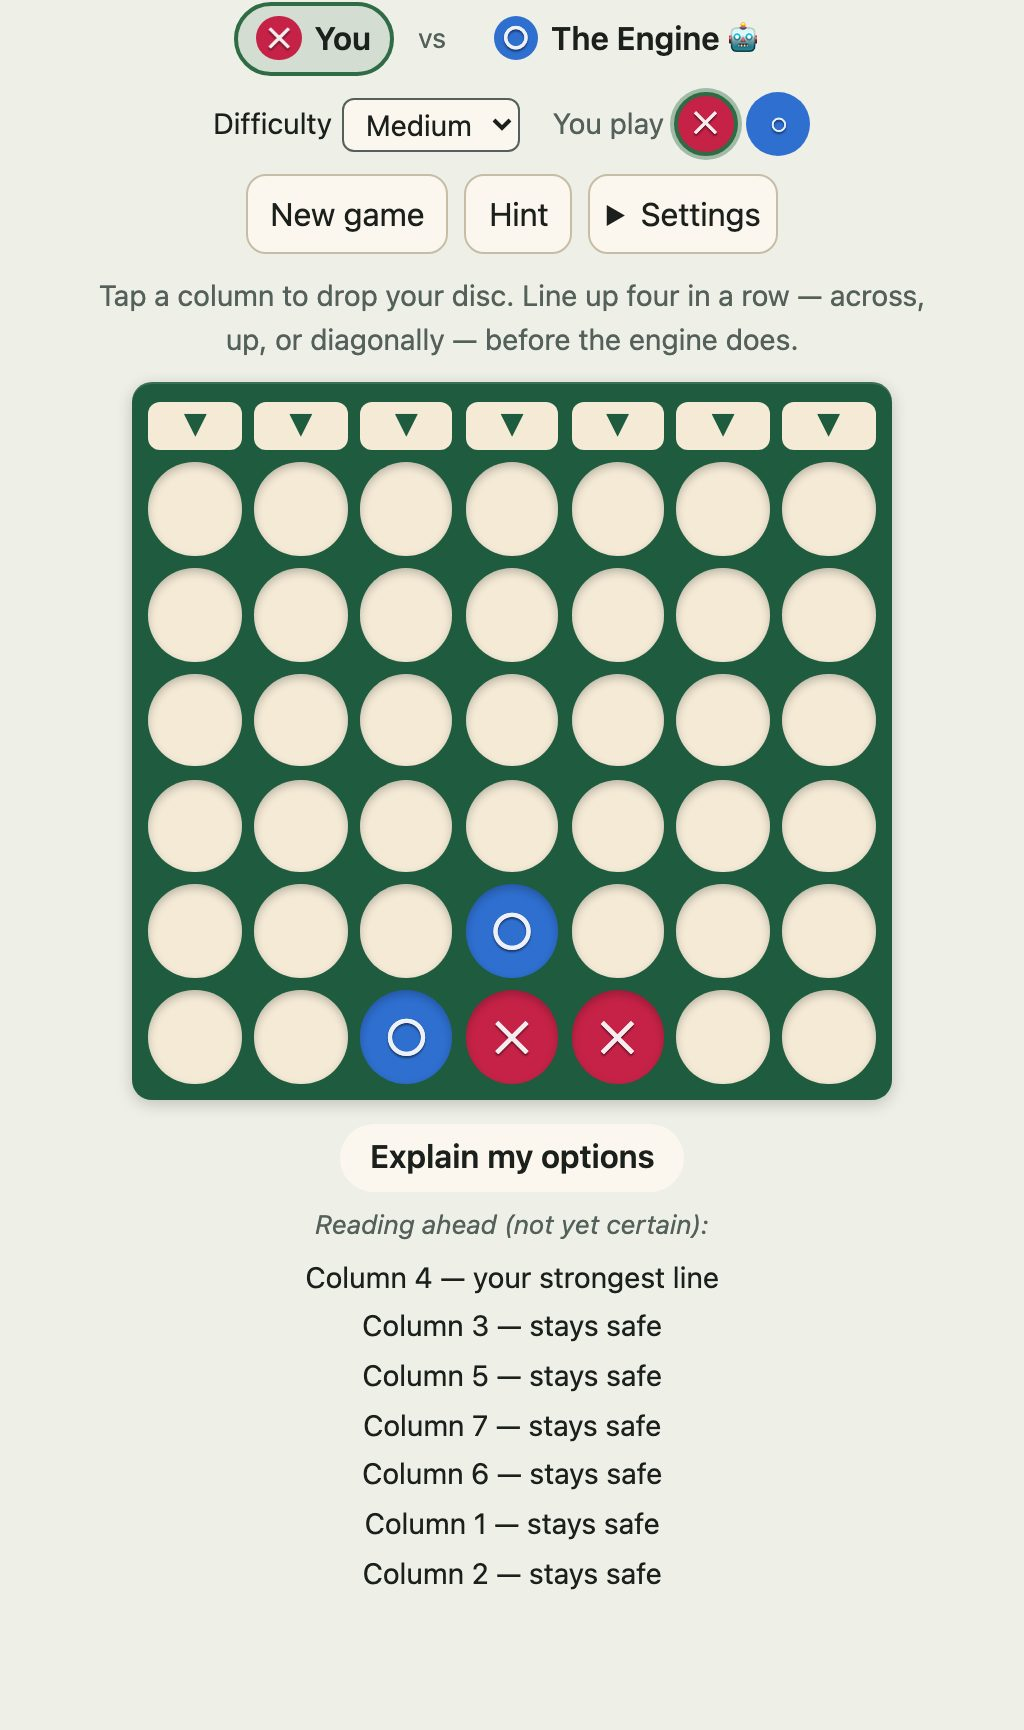
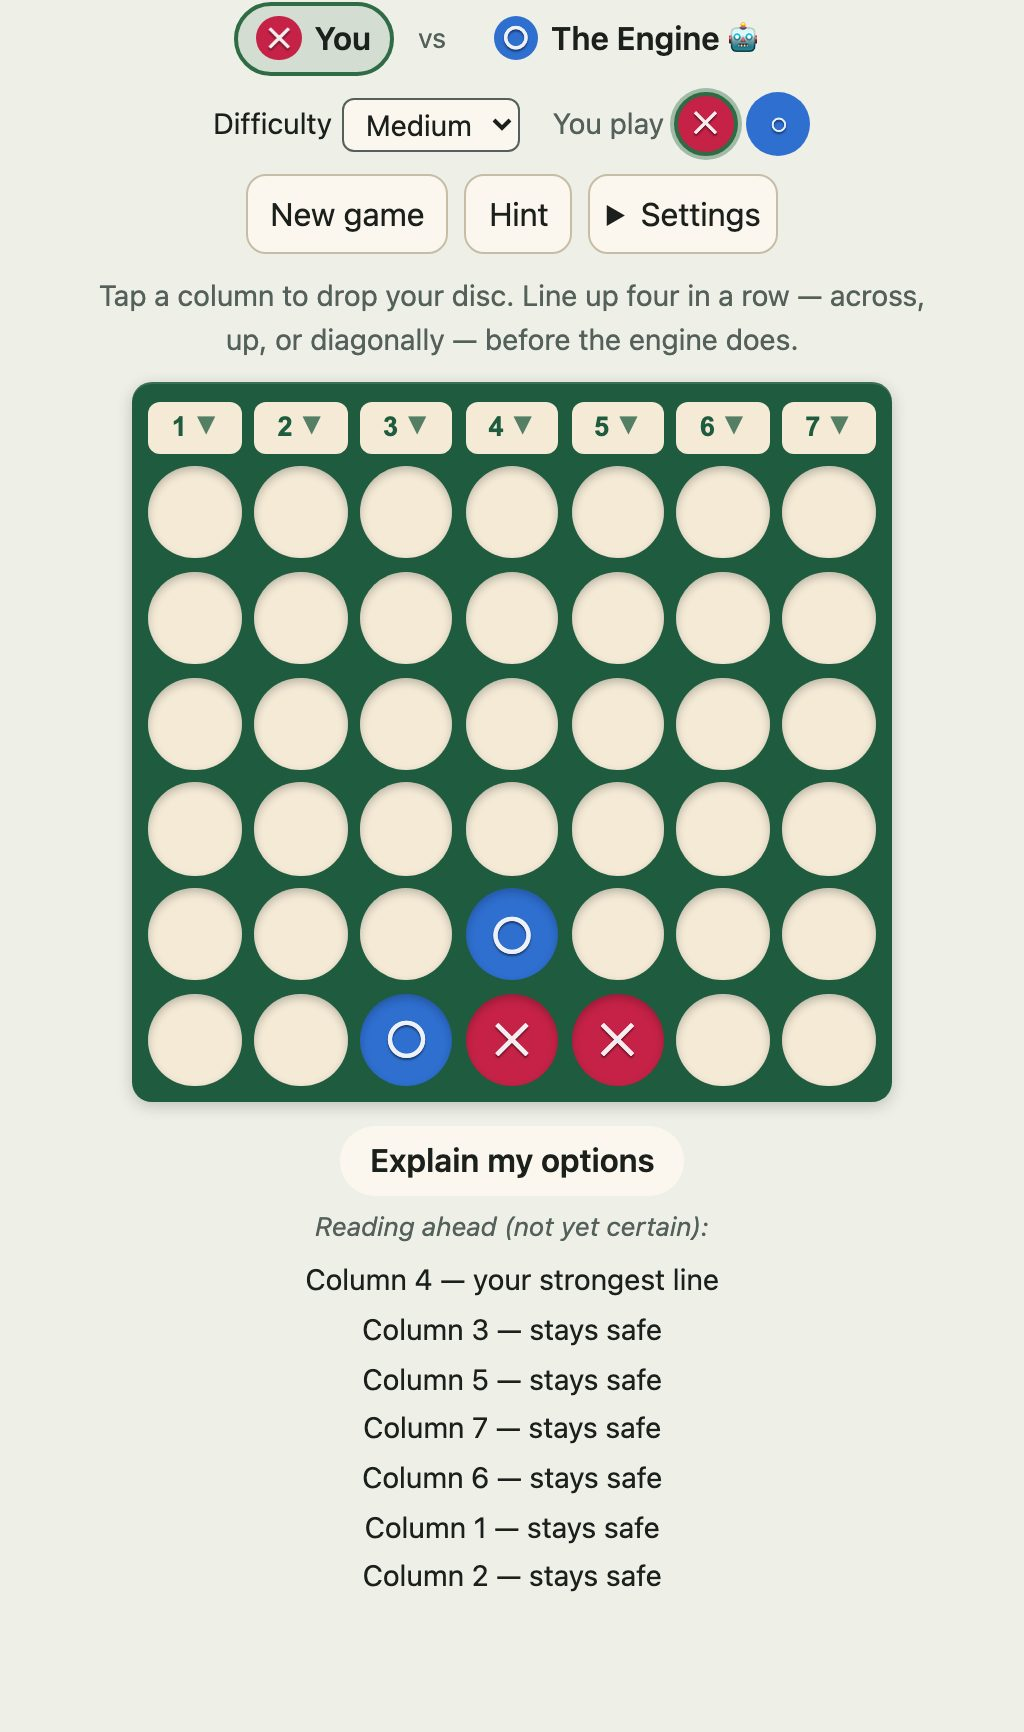
fix(drop4): playtest feedback — tutor opt-in, numbered columns, real persona (Chip)
From live play on the deployed site:
- Tutor guidance is now OPT-IN (Settings -> "Show tutor", off by default); the
  game plays clean without it. New drop4TutorEnabled setting.
- Columns numbered 1-7 on the board so the tutor/hint "column N" references are
  legible. Regenerated drop4-board + drop4-tutor shots (staged only those).
- The experimental opponent has a real persona, "Chip": cocky-but-gracious,
  speaks in SECOND person, reacts to what just happened (block/blunder/solid/win)
  via a persona prompt + situational hints + an in-character fallback library —
  replacing the third-person strategy nonsense.
- Default local-AI model lowered to Qwen2.5-0.5B (from 1.5B): faster (esp. mobile),
  and 1.5B was no better at short banter.

32 drop4 e2e green; tsc/eslint clean; hybrid ai:trial (0.5B): 'Chip: You've made a
solid move. Keep it up.'

diff --git a/src/games/drop4/drop4.ts b/src/games/drop4/drop4.ts
@@ -25,10 +25,12 @@ import {
   declareAssistanceEnabled,
   drop4Level,
   drop4Mark,
+  drop4TutorEnabled,
   hintsEnabled,
   setDeclareAssistance,
   setDrop4Level,
   setDrop4Mark,
+  setDrop4Tutor,
   setHintsEnabled,
   type Drop4Mark,
 } from "../../settings.js";
@@ -56,10 +58,28 @@ const FANFARE_MS = 1300;
 const LEVELS: readonly Level[] = ["Easy", "Medium", "Hard", "Perfect"];
 /** The picker value / opponent kind for the experimental local-AI hybrid. */
 const LOCAL_AI = "local-ai";
-/** The pinned local-AI model (embedded WebLLM; downloaded once, then cached). */
-const LOCAL_AI_MODEL = "Qwen2.5-1.5B-Instruct-q4f16_1-MLC";
-const HYBRID_SYSTEM =
-  'You are a Connect Four opponent with a bit of personality. Pick ONE of the offered legal moves and give a short, characterful reason. Reply ONLY with JSON {"move": <one of the offered column indices>, "reason": "<one short sentence>"}.';
+/**
+ * The pinned local-AI model (embedded WebLLM; downloaded once, then cached).
+ * A **small** model on purpose: the LLM only writes a one-line quip within the
+ * engine's band — size barely helps short banter (the 1.5B was no better and
+ * much slower, painfully so on mobile), so we default to the fast 0.5B.
+ */
+const LOCAL_AI_MODEL = "Qwen2.5-0.5B-Instruct-q4f16_1-MLC";
+/** The local-AI opponent's persona (distinct from the classic "The Engine"). */
+const LOCAL_AI_PERSONA = { name: "Chip", avatar: "😎" } as const;
+/**
+ * Persona system prompt — the small model needs tight, concrete rules to sound
+ * like a character instead of narrating strategy in the third person.
+ */
+const HYBRID_SYSTEM = [
+  `You are ${LOCAL_AI_PERSONA.name}, a Connect Four opponent with a cocky but`,
+  "good-natured personality. You talk a little trash and give credit when it's due.",
+  "RULES: speak in FIRST person as yourself, TO your opponent (say \"you\", never",
+  "\"the opponent\" or \"the engine\"). ONE short sentence, under 12 words. React to",
+  "what JUST happened — never explain strategy or name the board in the third",
+  'person. Reply ONLY with JSON {"move": <one of the offered columns>, "reason":',
+  '"<your one-line quip>"}.',
+].join(" ");
 /** Display labels for the picker — the internal `Level`/persisted value stays
  *  `Perfect` (it is the exact/best-play level), but "Expert" reads better and
  *  doesn't overclaim (it is only provably perfect once the game is tractable). */
@@ -257,8 +277,12 @@ export function drop4Module(): GameModule {
   let opponentKind: "engine" | typeof LOCAL_AI = "engine";
   let runtime: WebLLMRuntime | null = null;
   let hybrid: HybridPlayer | null = null;
-  /** The opponent's spoken reason for its last move (local-AI only). */
+  /** The opponent's spoken line for its last move (local-AI only). */
   let aiSay: string | null = null;
+  /** Signals about the human's last move, for the local-AI opponent's reaction:
+   *  the move's quality, and whether it blocked the opponent's winning threat. */
+  let lastHumanQuality: "optimal" | "resultPreserving" | "blunder" | null = null;
+  let lastHumanBlocked = false;
 
   const statusEl = el("p", { class: "sol-status", role: "status", "aria-live": "polite" });
   const setStatus = (msg: string): void => {
@@ -269,6 +293,11 @@ export function drop4Module(): GameModule {
   // the engine (Side B, value 2) plays the other. Colour follows the mark.
   const markForValue = (v: number): Mark | null =>
     v === 1 ? playerMark : v === 2 ? other(playerMark) : null;
+
+  // The opponent's shown identity: the classic engine by default, the local-AI
+  // persona (Chip) when that opponent is toggled on.
+  const opponentIdentity = (): { name: string; avatar: string } =>
+    opponentKind === LOCAL_AI ? LOCAL_AI_PERSONA : OPPONENT;
 
   const randomSeed = (): bigint => {
     const buf = new Uint32Array(2);
@@ -302,13 +331,17 @@ export function drop4Module(): GameModule {
     coachMsg = null; // clear last turn's coaching
     // Assess the tapped move at the *current* position (human to move) before
     // it is applied — "was that a blunder" needs the position before the move.
+    // This drives the tutor coach (only when the opt-in tutor is on) AND the
+    // local-AI opponent's reaction (banter), so capture the quality either way.
     const report = game.tutor();
     const verdict = report.moves.find((m) => m.col === col) ?? null;
-    const pending = coachFor(verdict, report.bestCol, report.exact);
+    lastHumanQuality = verdict?.quality ?? null;
+    lastHumanBlocked = verdict?.blocksOpponentWin ?? false;
+    const pending = drop4TutorEnabled() ? coachFor(verdict, report.bestCol, report.exact) : null;
     if (!applyMove(col)) return; // the core decides; illegal = no-op
     setStatus("");
     if (gameOver()) {
-      coachMsg = pending; // a game-ending blunder is still explained
+      coachMsg = pending; // a game-ending blunder is still explained (tutor on)
       finish();
       return;
     }
@@ -323,7 +356,7 @@ export function drop4Module(): GameModule {
   const scheduleEngine = (pending: string | null): void => {
     if (!game) return;
     thinking = true;
-    setStatus(opponentKind === LOCAL_AI ? "Local AI is thinking…" : `${OPPONENT.name} is thinking…`);
+    setStatus(`${opponentIdentity().name} is thinking…`);
     render();
     window.setTimeout(() => void engineReply(pending), THINK_MS);
   };
@@ -344,31 +377,71 @@ export function drop4Module(): GameModule {
     render();
   };
 
-  // Build the local-AI prompt from the board render + the never-throw band, then
-  // ask the hybrid to pick within it. Any failure (model, network, bad output)
-  // degrades to the classic engine move — the game never breaks.
-  const hybridPrompt = (g: Drop4, band: readonly BandMove[]): string => {
+  // What just happened, in one word — drives both the persona prompt and the
+  // deterministic fallback line, so the banter is *reactive*, not generic.
+  type Situation = "blocked-me" | "blundered" | "solid" | "i-can-win" | "neutral";
+  const readSituation = (band: readonly BandMove[]): Situation => {
+    if (band.some((m) => m.idea === "wins now")) return "i-can-win";
+    if (lastHumanBlocked) return "blocked-me";
+    if (lastHumanQuality === "blunder") return "blundered";
+    if (lastHumanQuality === "optimal") return "solid";
+    return "neutral";
+  };
+  const SITUATION_HINT: Record<Situation, string> = {
+    "blocked-me": "You just blocked the line I was building — react to that.",
+    blundered: "You just played a weak move — tease me taking advantage.",
+    solid: "You just played a solid move — give a little credit, stay competitive.",
+    "i-can-win": "You can complete four this move — claim the win with a flourish.",
+    neutral: "Nothing decisive yet — a light competitive jab.",
+  };
+  // In-character canned lines, used when the small model returns nothing usable.
+  const FALLBACK_LINE: Record<Situation, string> = {
+    "blocked-me": "I thought I had you there.",
+    blundered: "Ooh, risky — I'll take it.",
+    solid: "Nice one. I'm just getting started.",
+    "i-can-win": "Gotcha. Good game.",
+    neutral: "Your move. I'm not worried yet.",
+  };
+
+  // Build the persona prompt from the board, the situation, and the never-throw
+  // band. The LLM picks within the band and writes Chip's one-line quip.
+  const hybridPrompt = (g: Drop4, band: readonly BandMove[], sit: Situation): string => {
     const legal = band.map((m) => m.col).join(", ");
-    const options = band.map((m) => `- ${m.col}: ${m.idea}`).join("\n");
-    return `${g.renderText()}\nReasonable moves (0-based column indices) and why each is fine:\n${options}\nPick ONE of these columns: ${legal}. Reply ONLY with JSON {"move", "reason"}.`;
+    return [
+      `Board (you are playing as your discs):\n${g.renderText()}`,
+      `${SITUATION_HINT[sit]}`,
+      `Drop into ONE of these columns: ${legal}.`,
+      `Your voice, e.g.: "Bold move — let's see." / "I thought I had you." / "Gotcha, good game."`,
+      `Reply ONLY with JSON {"move": <one of ${legal}>, "reason": "<your one-line quip, under 12 words>"}.`,
+    ].join("\n");
+  };
+
+  // Keep the model's quip only if it's usable (short, non-empty); else fall back
+  // to the in-character line for the situation — the small model whiffs often.
+  const cleanBanter = (reason: string, sit: Situation): string => {
+    const r = reason.trim();
+    return r.length > 0 && r.length <= 90 ? r : FALLBACK_LINE[sit];
   };
 
   const hybridMove = async (): Promise<number | null> => {
     if (!game) return null;
     try {
       if (!runtime || !hybrid) {
-        setStatus("Local AI: preparing the model (one-time download)…");
+        setStatus(`${LOCAL_AI_PERSONA.name}: warming up the model (one-time download)…`);
         render();
         runtime = new WebLLMRuntime({
           model: window.__DROP4_AI_MODEL ?? LOCAL_AI_MODEL,
-          onProgress: (t) => setStatus(`Local AI: ${t}`),
+          onProgress: (t) => setStatus(`${LOCAL_AI_PERSONA.name}: ${t}`),
         });
         hybrid = new HybridPlayer(runtime);
       }
       const band = buildBand(game.tutor().moves);
       if (band.length === 0) return game.liveMove(level); // no band → classic safety
-      const decision = await hybrid.pick(band, { prompt: hybridPrompt(game, band), system: HYBRID_SYSTEM });
-      aiSay = decision.reason;
+      const sit = readSituation(band);
+      const decision = await hybrid.pick(band, { prompt: hybridPrompt(game, band, sit), system: HYBRID_SYSTEM });
+      // The LLM's line if usable, else the in-character fallback (also used when
+      // the hybrid itself fell back to the engine move — source === "fallback").
+      aiSay = decision.source === "llm" ? cleanBanter(decision.reason, sit) : FALLBACK_LINE[sit];
       return decision.move;
     } catch {
       aiSay = null;
@@ -435,7 +508,11 @@ export function drop4Module(): GameModule {
         { class: `drop4-chip ${other(playerMark)}`, "aria-hidden": "true" },
         glyphFor(other(playerMark)),
       ),
-      el("span", { class: "drop4-name" }, `${OPPONENT.name} ${OPPONENT.avatar}`),
+      el(
+        "span",
+        { class: "drop4-name" },
+        `${opponentIdentity().name} ${opponentIdentity().avatar}`,
+      ),
       ...(thinking ? [el("span", { class: "drop4-thinking" }, "thinking…")] : []),
     );
     return el(
@@ -553,6 +630,10 @@ export function drop4Module(): GameModule {
       setting(declareAssistanceEnabled(), "Declare assistance used", "sol-set-assist", (on) => {
         setDeclareAssistance(on);
       }),
+      setting(drop4TutorEnabled(), "Show tutor", "sol-set-tutor", (on) => {
+        setDrop4Tutor(on);
+        render();
+      }),
     );
 
     bar.append(modes, actionBtn, settings);
@@ -589,7 +670,10 @@ export function drop4Module(): GameModule {
               "data-col": String(c),
               "aria-label": open ? `Drop in column ${c + 1}` : `Column ${c + 1} is full`,
             },
-            "▼",
+            // Visible 1-based column number (so "column N" from the tutor/hint is
+            // legible) + the drop-arrow affordance.
+            el("span", { class: "drop4-colnum", "aria-hidden": "true" }, String(c + 1)),
+            el("span", { class: "drop4-arrow", "aria-hidden": "true" }, "▼"),
           ),
         );
       }
@@ -694,12 +778,17 @@ export function drop4Module(): GameModule {
       renderControls(),
       banner,
       buildBoard(board, { interactive: true, winLine: winLineNow(board) }),
-      renderTutorPanel(),
+      // The tutor panel is opt-in (Settings → Show tutor); off by default.
+      ...(drop4TutorEnabled() ? [renderTutorPanel()] : []),
       statusEl,
     ];
     // The local-AI opponent's spoken reason for its last move (personality).
     if (aiSay && opponentKind === LOCAL_AI) {
-      parts.splice(1, 0, el("p", { class: "drop4-ai-say", role: "status" }, `${OPPONENT.avatar} ${aiSay}`));
+      parts.splice(
+        1,
+        0,
+        el("p", { class: "drop4-ai-say", role: "status" }, `${LOCAL_AI_PERSONA.name}: ${aiSay}`),
+      );
     }
     container.replaceChildren(el("div", { class: "drop4-game" }, ...parts));
   }

diff --git a/tests/drop4.spec.ts b/tests/drop4.spec.ts
@@ -45,6 +45,10 @@ test("the board, columns, turn bar, and options render", async ({ page }) => {
   // Fresh board: empty, and every column glows as a legal target.
   expect(await filled(page)).toBe(0);
   await expect(page.locator(".drop4-col.legal")).toHaveCount(7);
+  // Columns are numbered 1–7 so the tutor/hint "column N" references are legible.
+  await expect(page.locator(".drop4-colnum")).toHaveCount(7);
+  await expect(page.locator('.drop4-col[data-col="0"] .drop4-colnum')).toHaveText("1");
+  await expect(page.locator('.drop4-col[data-col="6"] .drop4-colnum')).toHaveText("7");
 });
 
 test("tapping a column drops a disc and the engine replies with a visible last move", async ({ page }) => {
@@ -132,7 +136,24 @@ test("a full game plays to a terminal result; the final board + winning line sho
   await shared.close();
 });
 
+// The tutor panel is opt-in (off by default); enable it via its setting.
+async function enableTutor(page: Page): Promise<void> {
+  await page.addInitScript(() => localStorage.setItem("fun-drop4-tutor", "on"));
+}
+
+test("the tutor panel is off by default and appears when enabled in settings", async ({ page }) => {
+  await page.goto("/drop4/?seed=7");
+  await ready(page);
+  // Default: no tutor panel (the game plays clean without coaching).
+  await expect(page.locator(".drop4-tutor")).toHaveCount(0);
+  // Enable the "Show tutor" setting → the panel appears.
+  await page.locator(".sol-settings summary").click();
+  await page.locator(".sol-set-tutor").check();
+  await expect(page.locator(".drop4-tutor-explain")).toBeVisible();
+});
+
 test("the tutor flags a blunder end-to-end with an honest explanation", async ({ page }) => {
+  await enableTutor(page);
   await page.goto("/drop4/?seed=7");
   await ready(page);
   // Set up a position where the human (Side A) has an immediate win in col 0 but
@@ -157,6 +178,7 @@ test("the tutor flags a blunder end-to-end with an honest explanation", async ({
 });
 
 test("'Explain my options' lists at least two band moves with an idea each", async ({ page }) => {
+  await enableTutor(page);
   await page.goto("/drop4/?seed=7");
   await ready(page);
   await page.locator(".drop4-tutor-explain").click();

diff --git a/src/settings.ts b/src/settings.ts
@@ -11,6 +11,7 @@ const AUTOPLAY_KEY = "fun-autoplay";
 const AIM_GUIDE_KEY = "fun-bubble-aim-guide";
 const DROP4_LEVEL_KEY = "fun-drop4-level";
 const DROP4_MARK_KEY = "fun-drop4-mark";
+const DROP4_TUTOR_KEY = "fun-drop4-tutor";
 const FIRE_ON_RELEASE_KEY = "fun-bubble-fire-on-release";
 const AIM_SNAP_KEY = "fun-bubble-aim-snap";
 const AIM_GAIN_KEY = "fun-bubble-aim-gain";
@@ -155,6 +156,15 @@ export function drop4Mark(): Drop4Mark {
     return "x";
   }
 }
+/** Show the engine-grounded tutor panel in Drop 4 — **off by default** (opt-in
+ *  coaching; the game plays clean without it). */
+export function drop4TutorEnabled(): boolean {
+  return read(DROP4_TUTOR_KEY, false);
+}
+export function setDrop4Tutor(on: boolean): void {
+  write(DROP4_TUTOR_KEY, on);
+}
+
 export function setDrop4Mark(mark: Drop4Mark): void {
   try {
     localStorage.setItem(DROP4_MARK_KEY, mark);

diff --git a/styles.css b/styles.css
@@ -2122,10 +2122,11 @@ body.fullscreen .play-area {
 /* The drop-arrow header — the distinct affordance that says "drop here". */
 .drop4-drop {
   width: var(--d4-cell);
-  height: 1.5rem;
+  height: 1.6rem;
   display: flex;
   align-items: center;
   justify-content: center;
+  gap: 0.2rem;
   border: none;
   border-radius: 6px;
   font-size: 1rem;
@@ -2134,6 +2135,15 @@ body.fullscreen .play-area {
   color: rgb(255 255 255 / 45%);
   cursor: pointer;
   touch-action: manipulation;
+}
+/* The 1-based column number (prominent) + the drop-arrow affordance (muted). */
+.drop4-colnum {
+  font-weight: 700;
+  font-size: 0.85rem;
+}
+.drop4-arrow {
+  font-size: 0.8rem;
+  opacity: 0.75;
 }
 .drop4-drop:focus-visible {
   outline: 3px solid var(--focus);
